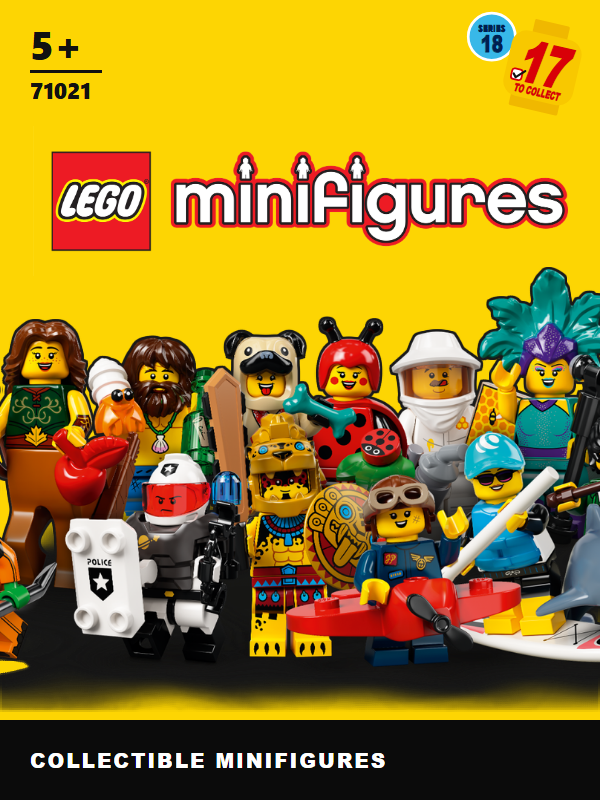
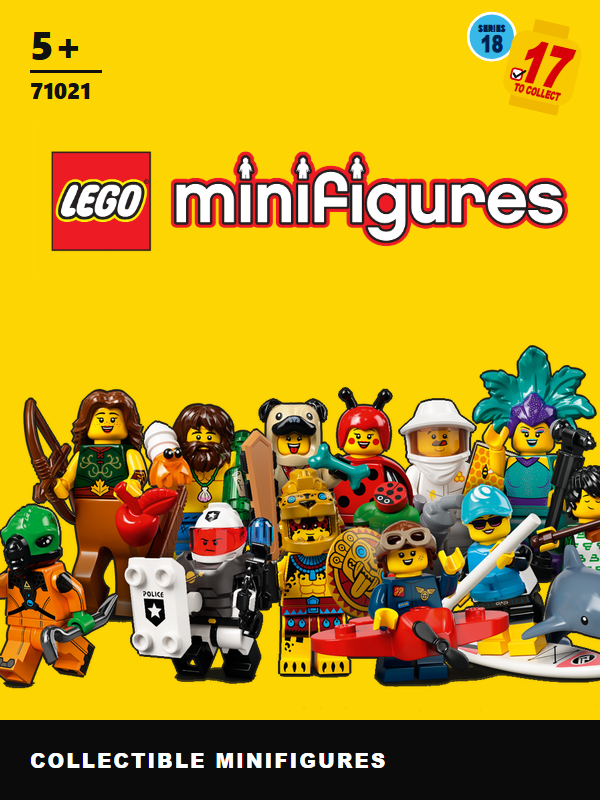
fix(V2-11): 71021 dark floor band removed, FIG_ADJ dropped

diff --git a/scripts/build_cards.py b/scripts/build_cards.py
@@ -57,7 +57,8 @@ FIG_TARGET = 111
 # Per-card factor on FIG_TARGET where props or overlap skew the area measure. Set 2026-11-14 by eye: head width on a
 # 0.5x crowd sheet against a 37 px marker (reference heads 34-40 px); factor = 35 / measured head px.
 FIG_ADJ = {"71002": 1.2, "71020": 1.3, "71022": 1.3, "71027": 1.2, "71029": 1.2,
-           "71001": 1.12, "71008": 1.12, "71018": 1.12, "71021": 1.12, "71000": 0.7}
+           "71001": 1.12, "71008": 1.12, "71018": 1.12, "71000": 0.7}
+# 71021 (was 1.12) dropped 2026-11-15: its shadow inflated the area; SHADOW_DROP now clears it.
 # 8833 (was 1.3), 8827 and 71025 (were 1.12) dropped 2026-11-14: owner "8833 too zoomed in"; 8827/71025 have new sources.
 # Horizontal crowd shift in card px (negative = left). OWNER-SUPPLIED 2026-11-14: "71038 move a little to the left".
 GROUP_DX = {"71038": -30}
@@ -155,8 +156,8 @@ def badge(number, count):
 
 # Official transparent crowd PNGs that keep a soft grey/white floor shadow and glow in their alpha. Owner round 2,
 # 2026-11-14: "71037 71038 71039 71045 71046 71047 all have shadow!". Measured 2026-11-14: 5-10 % of their pixels are
-# semi-transparent and grey (references 71009/71051: 1 %). 71012 added 2026-11-15 (owner "71012 not good"; 9 % grey).
-SHADOW_DROP = {"71012", "71037", "71038", "71039", "71045", "71046", "71047"}
+# semi-transparent and grey (references 71009/71051: 1 %). 71012 and 71021 added 2026-11-15 (owner "not good"; 9 % and 15 % grey).
+SHADOW_DROP = {"71012", "71021", "71037", "71038", "71039", "71045", "71046", "71047"}
 SHADOW_ALPHA, SHADOW_SAT = 200, 30
 
 
